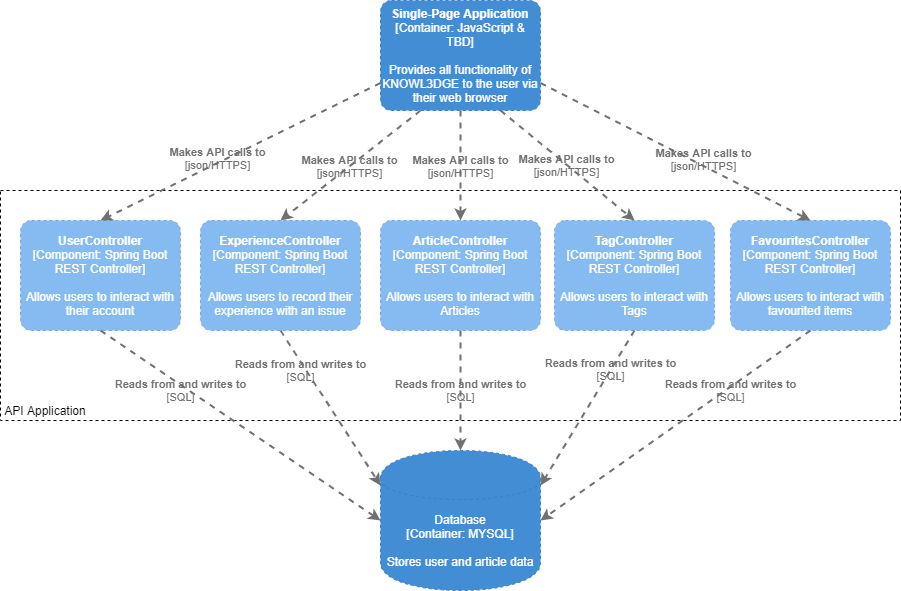
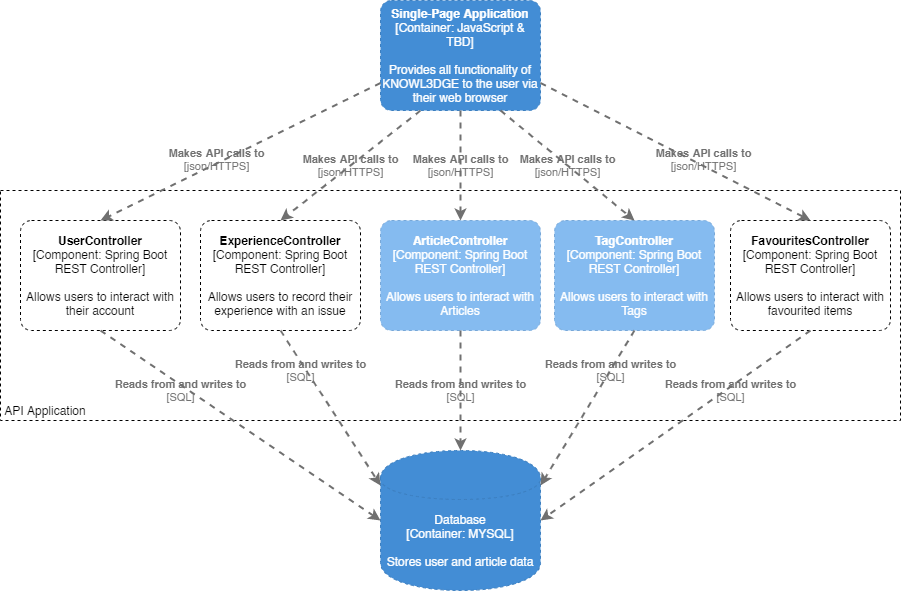
KNOW-104 greyed-out elements not yet implemented

diff --git a/documentation/knowl3dge-sad.md b/documentation/knowl3dge-sad.md
@@ -3,7 +3,7 @@
 ## Introduction
 
 In this document the architecture of the software (KNOWL3DGE) will be described and drawn out in several diagrams following the [C4 model(https://c4model.com/)].
-
+*Greyed-out elements are not (yet) implemented.*
 ## System Context (C1)
 
 ![The system context diagram](media/knowl3dge-context.png)
